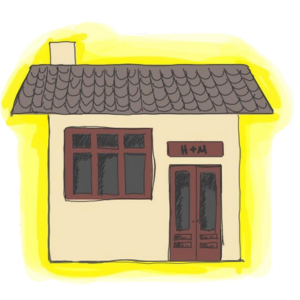
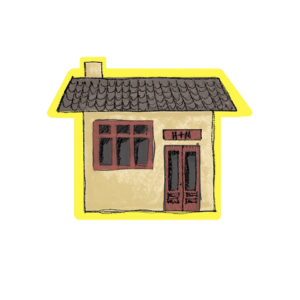
feat: alternate backgrounds

diff --git a/home.html b/home.html
@@ -15,45 +15,45 @@
       <nav id="gallery-nav">
         <h3>Time Jump</h3>
         <ul>
-          <li><a href="#section-1">Winter Retreat</a></li>
-          <li><a href="#section-2">Cidercade</a></li>
-          <li><a href="#section-3">Hike 2</a></li>
-          <li><a href="#section-4">Polar Bear Plunge</a></li>
-          <li><a href="#section-5">SCRC</a></li>
-          <li><a href="#section-6">Valentines</a></li>
-          <li><a href="#section-7">Feb 25th</a></li>
-          <li><a href="#section-8">Hoang's Bday!</a></li>
-          <li><a href="#section-9">Hike 3</a></li>
-          <li><a href="#section-10">Will U Be My GF?</a></li>
-          <li><a href="#section-11">Banquet</a></li>
-          <li><a href="#section-12">Michelle's Bday!</a></li>
-          <li><a href="#section-13">Nose Strip</a></li>
-          <li><a href="#section-14">Superman</a></li>
-          <li><a href="#section-15">Summer Retreat</a></li>
-          <li><a href="#section-16">Six Flags</a></li>
-          <li><a href="#section-17">Will U Be My Bf?</a></li>
-          <li><a href="#section-18">Vancouver</a></li>
-          <li><a href="#section-19">Pictures of Us</a></li>
-          <li><a href="#section-20">Movie Nights</a></li>
-          <li><a href="#section-21">Working Out</a></li>
-          <li><a href="#section-22">My Hero</a></li>
-          <li><a href="#section-23">Eating Dates</a></li>
-          <li><a href="#section-24">My Fav Texts</a></li>
-          <li><a href="#section-25">My Fav Pics of U</a></li>
-          <li><a href="#section-26">Pics of Me</a></li>
+          <li><a href="#section-1">1.Winter Retreat</a></li>
+          <li><a href="#section-2">2.Cidercade</a></li>
+          <li><a href="#section-3">3.Hike 2</a></li>
+          <li><a href="#section-4">4.Polar Bear Plunge</a></li>
+          <li><a href="#section-5">5.SCRC</a></li>
+          <li><a href="#section-6">6.Valentines</a></li>
+          <li><a href="#section-7">7.Feb 25th</a></li>
+          <li><a href="#section-8">8.Hoang's Bday!</a></li>
+          <li><a href="#section-9">9.Hike 3</a></li>
+          <li><a href="#section-10">10.Will U Be My GF?</a></li>
+          <li><a href="#section-11">11.Banquet</a></li>
+          <li><a href="#section-12">12.Michelle's Bday!</a></li>
+          <li><a href="#section-13">13.Nose Strip</a></li>
+          <li><a href="#section-14">14.Superman</a></li>
+          <li><a href="#section-15">15.Summer Retreat</a></li>
+          <li><a href="#section-16">16.Six Flags</a></li>
+          <li><a href="#section-17">17.Will U Be My Bf?</a></li>
+          <li><a href="#section-18">18.Vancouver</a></li>
+          <li><a href="#section-19">19.Pictures of Us</a></li>
+          <li><a href="#section-20">20.Movie Nights</a></li>
+          <li><a href="#section-21">21.Working Out</a></li>
+          <li><a href="#section-22">22.My Hero</a></li>
+          <li><a href="#section-23">23.Eating Dates</a></li>
+          <li><a href="#section-24">24.My Fav Texts</a></li>
+          <li><a href="#section-25">25.My Fav Pics of U</a></li>
+          <li><a href="#section-26">26.Pics of Me</a></li>
         </ul>
       </nav>
       <div id="gallery-content">
 
         <section id="section-1" class="gallery-section">
           <h2>Winter Officer Retreat 2025</h2>
-          <pre>
-            - The night you admitted that if you had to set an officer up with your friend, you would choose me :p
-            - Steven, you, and I stayed in the pool the latest. You kept calling me penis face because I left it 
+          <p class="text">
+            - The night you admitted that if you had to set an officer up with your friend, you would choose me :p 
+            <br>- Steven, you, and I stayed in the pool the latest. You kept calling me penis face because I left it 
             first. Then I made you and Steven shower together 
-            - When playing cup pin pong, our team’s punishment was to switch cloths, I had to very nonchalantly act 
+            <br>- When playing cup pin pong, our team’s punishment was to switch cloths, I had to very nonchalantly act 
             like I didn’t really want to switch with you.
-          </pre>
+          </p>
           <img src="photos/WinterRetreat/1.JPG">
           <img src="photos/WinterRetreat/2.JPG">
           <img src="photos/WinterRetreat/3.JPG">

diff --git a/styles.css b/styles.css
@@ -12,14 +12,21 @@
   transition: opacity 0.25s ease-in-out;
 }
 
+.text {
+  width: 500px;           /* max line length */
+  line-height: 1.5;
+  word-wrap: break-word; /* break long words if needed */
+  
+}
+
 #click-area {
   position: absolute; 
-  top: 44%;
-  left: 49%;  
+  top: 50%;
+  left: 47.5%;  
 
   transform: translate(-50%, -50%);
 
-  width: 32%;
+  width: 35%;
   height: 17%;
 
   background-color: rgb(164, 44, 44); /* semi-transparent */
@@ -36,10 +43,10 @@
 
 /* house icons */
 #popup-icon {
-  top: 43.2%;
-  left: 50%; 
+  top: 50.5%;
+  left: 48%; 
   transform: translate(-50%, -50%);
-  width: 50%;
+  width: 85%;
 
   position: absolute;
   display: none;
@@ -51,22 +58,22 @@
   position: absolute;
   top: 50%;
   left: 50%;
-  transform: translate(-50%, -50%);
+  transform: translate(-50%, -53%);
 
-  width: 80%;
+  width: 90%;
   height: 90%;
 
   display: flex;              /* KEY */
   overflow-y: auto;           /* shared scrolling */
 
-  background: rgba(255, 255, 255, 0.85);
+  background: rgba(255, 255, 255, 0.50);
   border-radius: 12px;
 }
 
 /* Left gallery */
 #gallery-nav {
   width: 30%;
-  padding: 20px;
+  padding: 30px;
   border-right: 1px solid #ccc;
 
   position: sticky;

diff --git a/app.js b/app.js
@@ -18,15 +18,15 @@ clickArea.addEventListener("click", () => {
 
   setTimeout(() => {
     window.location.href = "./home.html";
-  }, 1000);
+  }, 500);
 });
 
 // Switch Backgrounds
 const background = document.getElementById("background");
 
 const backgrounds = [
-  "icons/phanworld_background_1.jpeg",
-  "icons/phanworld_background_2.jpeg"
+  "icons/phanworld_background_1.jpg",
+  "icons/phanworld_background_2.jpg"
 ];
 
 let index = 0;
@@ -34,5 +34,5 @@ let index = 0;
 setInterval(() => {
   index = (index + 1) % backgrounds.length;
   background.src = backgrounds[index];
-}, 800);
+}, 1200);
 
